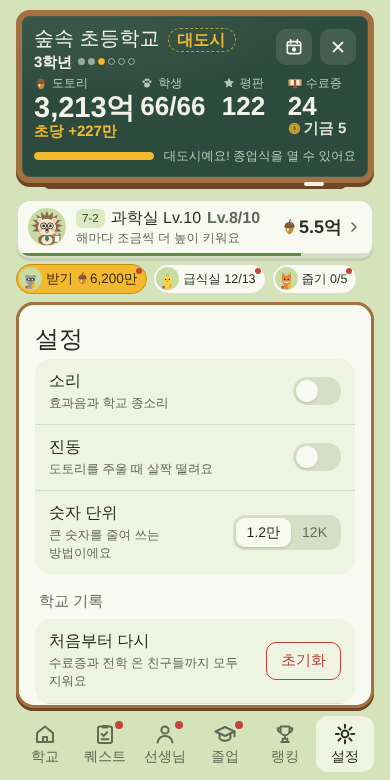
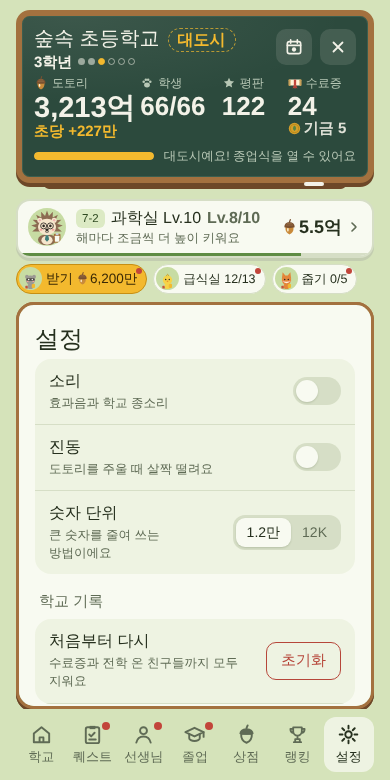
지도를 크게, 황금 도토리 상점을 탭으로, 구글 계정 연결 선물
- 학교 탭은 위아래로 넘겨 보고 지도는 화면 너비만큼 크게 그려요
- 상점을 아래 탭으로 옮겼어요 (지도 위 버튼은 뺐어요)
- 구글 계정을 처음 연결하면 수료증 15장, 기금 3, 황금 도토리 30개를 선물해요

Claude-Session: https://claude.ai/code/session_012ze8hDr8j54WWG53vfH8PM

Changed region(s): [[0.0308, 0.8923, 0.9538, 1.0]]

diff --git a/index.html b/index.html
@@ -491,7 +491,12 @@ label.srow,button.srow{cursor:pointer}
 .fallfx.snow i{width:5px;height:5px;border-radius:50%;background:#FFFFFF;opacity:.9;box-shadow:0 0 2px rgba(120,140,160,.5)}
 @keyframes leafFall{0%{top:-4%;transform:translateX(0) rotate(0)}50%{transform:translateX(var(--dx)) rotate(160deg)}100%{top:104%;transform:translateX(0) rotate(320deg)}}
 @media (prefers-reduced-motion: reduce){.fallfx i{animation:none;top:var(--y)}}
-.modal.shop{padding-bottom:16px}
+.shop-panel{text-align:center}
+.shop-panel h2{text-align:left}
+.shop-panel .shop-scroll{overflow:visible}
+.shop-panel .shop-adleft{margin:6px 0 2px;font-size:12.5px}
+.shop-panel .shop-ask p{margin:0 0 8px;color:var(--chip-ink);font-size:14px}
+.shop-panel .shop-ask{position:sticky;bottom:-28px;box-shadow:0 -4px 12px var(--shadow)}
 .shop-have{display:flex;align-items:center;justify-content:center;gap:6px;margin:0 0 8px;font-family:var(--font-chalk);font-weight:700;font-size:32px;line-height:1.1;font-variant-numeric:tabular-nums}
 .shop-have svg{width:28px;height:28px}
 .modal .shop-adleft{margin:6px 0 2px;font-size:12.5px}
@@ -549,9 +554,14 @@ html.ait .app{padding-top:calc(10px + var(--ait-top, 0px));padding-bottom:var(--
 .info dt{color:var(--muted)} .dev-info{margin-bottom:10px} .info dd{margin:0;text-align:right}
 
 /* 탭 */
-.tabs{flex:none;display:grid;grid-template-columns:repeat(6,1fr);gap:2px;padding-block:8px}
-.tab{position:relative;display:flex;flex-direction:column;align-items:center;gap:2px;padding:6px 0;border:0;border-radius:12px;background:none;color:var(--muted);font-family:var(--font-display);font-size:14px;cursor:pointer}
-.tab svg{width:24px;height:24px}
+.tabs{flex:none;display:grid;grid-template-columns:repeat(7,1fr);gap:1px;padding-block:8px}
+/* 학교 탭은 위아래로 넘겨 보고, 지도는 화면 너비에 맞춰 크게 그려요 */
+.scroller{flex:1;min-height:0;display:flex;flex-direction:column;overflow-y:auto;overscroll-behavior:contain;scrollbar-width:none}
+.scroller::-webkit-scrollbar{display:none}
+.app.on-school .stage{flex:1 0 auto;min-height:calc((min(100vw, 480px) - 32px) * 1.16)}
+.app:not(.on-school) .scroller{overflow:hidden}
+.tab{position:relative;display:flex;flex-direction:column;align-items:center;gap:2px;padding:6px 0;border:0;border-radius:12px;background:none;color:var(--muted);font-family:var(--font-display);font-size:13px;white-space:nowrap;cursor:pointer}
+.tab svg{width:23px;height:23px}
 .tab[aria-selected="true"]{color:var(--ink);background:color-mix(in srgb, var(--paper) 72%, transparent)}
 .tab .dot{position:absolute;top:5px;left:calc(50% + 10px);width:8px;height:8px;border-radius:50%;background:var(--seal)}
 
@@ -820,7 +830,8 @@ html.ait .app{padding-top:calc(10px + var(--ait-top, 0px));padding-bottom:var(--
 </style>
 </head>
 <body>
-<div class="app" id="app">
+<div class="app on-school" id="app">
+<div class="scroller" id="scroller">
   <header class="board">
     <div class="board-top">
       <div class="school">
@@ -1118,7 +1129,7 @@ html.ait .app{padding-top:calc(10px + var(--ait-top, 0px));padding-bottom:var(--
       </svg>
       <div class="fallfx" id="fallFx" hidden aria-hidden="true"></div>
       <div class="map-left">
-        <button class="shopbtn" id="btnShop" type="button" aria-label="황금 도토리 상점"><svg viewBox="-8 -11 16 20" aria-hidden="true"><path d="M-4.6 -1 Q-4.9 5.4 0 7.4 Q4.9 5.4 4.6 -1 Z" class="c-gnut"/><ellipse cx="-1.8" cy="2" rx="0.9" ry="2.1" class="c-gshine"/><path d="M-5.8 -0.8 Q-5.8 -6.2 0 -6.6 Q5.8 -6.2 5.8 -0.8 Q0 0.8 -5.8 -0.8 Z" class="c-gcap"/><path d="M-4 -3.2 H4 M-2.8 -5 H2.8" class="s-gline"/><path d="M0 -6.6 L0.9 -9.2" class="s-gstem"/></svg><b id="goldN">0</b>상점</button>
+        <button class="shopbtn" id="btnShop" type="button" hidden aria-label="황금 도토리 상점"><svg viewBox="-8 -11 16 20" aria-hidden="true"><path d="M-4.6 -1 Q-4.9 5.4 0 7.4 Q4.9 5.4 4.6 -1 Z" class="c-gnut"/><ellipse cx="-1.8" cy="2" rx="0.9" ry="2.1" class="c-gshine"/><path d="M-5.8 -0.8 Q-5.8 -6.2 0 -6.6 Q5.8 -6.2 5.8 -0.8 Q0 0.8 -5.8 -0.8 Z" class="c-gcap"/><path d="M-4 -3.2 H4 M-2.8 -5 H2.8" class="s-gline"/><path d="M0 -6.6 L0.9 -9.2" class="s-gstem"/></svg><b id="goldN">0</b>상점</button>
         <button class="boost" id="btnBoost" type="button" hidden aria-label="부엉이 선생님 보충수업"><span class="b-av" id="boostIc" aria-hidden="true"></span>보충수업 <span class="b-n" id="boostN">5</span></button>
         <div class="feast" id="feastChip" hidden>특식 데이 <b id="feastTime">5:00</b></div>
         <div class="feast" id="autoChip" hidden>자동 줍기 <b id="autoTime">60:00</b></div>
@@ -1179,6 +1190,18 @@ html.ait .app{padding-top:calc(10px + var(--ait-top, 0px));padding-bottom:var(--
       <div class="friends" id="friendList"></div>
     </section>
 
+    <section class="panel shop-panel" id="panelShop" hidden aria-labelledby="shopTitle">
+    <h2 id="shopTitle">황금 도토리 상점</h2>
+    <div class="shop-have" id="shopHave"></div>
+    <button class="cta small" type="button" id="shopAd">광고 보고 황금 도토리 2개 받기</button>
+    <p class="fine shop-adleft" id="shopAdLeft"></p>
+    <div class="shop-scroll" id="shopList"></div>
+    <div class="shop-ask" id="shopAsk" hidden>
+      <p id="shopAskText"></p>
+      <div class="btn-row"><button class="btn-sub" type="button" id="shopNo">취소</button><button class="cta" type="button" id="shopYes">사기</button></div>
+    </div>
+    </section>
+
     <section class="panel" id="panelRank" hidden aria-labelledby="ttlRank">
       <h2 id="ttlRank">랭킹</h2>
       <p class="lead">종업식과 졸업식에서 받은 수료증을 모두 더한 학교 점수로 순위를 매겨요.</p>
@@ -1234,6 +1257,7 @@ html.ait .app{padding-top:calc(10px + var(--ait-top, 0px));padding-bottom:var(--
     <div class="toast" id="toast" role="status" aria-live="polite" hidden></div>
   </main>
 
+</div>
   <nav class="tabs" role="tablist" aria-label="화면 이동">
     <button class="tab" type="button" role="tab" data-tab="school" aria-selected="true">
       <svg viewBox="0 0 24 24" aria-hidden="true"><path d="M4 11 12 4.5 20 11v9H4z M10 20v-5h4v5" fill="none" stroke="currentColor" stroke-width="2" stroke-linejoin="round"/></svg>학교
@@ -1251,6 +1275,9 @@ html.ait .app{padding-top:calc(10px + var(--ait-top, 0px));padding-bottom:var(--
       <svg viewBox="0 0 24 24" aria-hidden="true"><path d="M2.5 9.5 12 5l9.5 4.5L12 14z" fill="none" stroke="currentColor" stroke-width="2" stroke-linejoin="round"/><path d="M6.5 11.6v4.2c0 1.5 2.5 3 5.5 3s5.5-1.5 5.5-3v-4.2M21.5 9.5v5" fill="none" stroke="currentColor" stroke-width="2" stroke-linecap="round" stroke-linejoin="round"/></svg>졸업
       <span class="dot" id="gDot" hidden></span>
       <span class="tguide" aria-hidden="true"><svg viewBox="-10 -22 20 22"><path d="M0 -1 L-8.5 -11 L-3.8 -11 L-3.8 -21 L3.8 -21 L3.8 -11 L8.5 -11 Z"/></svg></span>
+    </button>
+    <button class="tab" type="button" role="tab" data-tab="shop" aria-selected="false">
+      <svg viewBox="0 0 24 24" aria-hidden="true"><path d="M6.4 11.2 Q6.1 18.6 12 20.6 Q17.9 18.6 17.6 11.2 Z" fill="none" stroke="currentColor" stroke-width="2" stroke-linejoin="round"/><path d="M4.6 11.4 Q4.6 5.8 12 5.4 Q19.4 5.8 19.4 11.4 Q12 13 4.6 11.4 Z" fill="currentColor"/><path d="M12 5.4 L13.2 2.6" stroke="currentColor" stroke-width="2" stroke-linecap="round"/></svg>상점
     </button>
     <button class="tab" type="button" role="tab" data-tab="rank" aria-selected="false">
       <svg viewBox="0 0 24 24" aria-hidden="true"><path d="M7.5 4.5h9v4.2a4.5 4.5 0 0 1-9 0z M7.5 6.2H4.6c0 2.6 1.3 4 3.3 4.3 M16.5 6.2h2.9c0 2.6-1.3 4-3.3 4.3 M12 13.2v3.6 M8.2 20h7.6 M9.6 16.8h4.8V20H9.6z" fill="none" stroke="currentColor" stroke-width="1.9" stroke-linejoin="round" stroke-linecap="round"/></svg>랭킹
@@ -1385,21 +1412,6 @@ html.ait .app{padding-top:calc(10px + var(--ait-top, 0px));padding-bottom:var(--
   </section>
 </div>
 
-<div class="overlay center" id="mShop" hidden>
-  <div class="backdrop" data-close-shop></div>
-  <section class="modal wide shop" role="dialog" aria-modal="true" aria-labelledby="shopTitle">
-    <h2 id="shopTitle">황금 도토리 상점</h2>
-    <div class="shop-have" id="shopHave"></div>
-    <button class="cta small" type="button" id="shopAd">광고 보고 황금 도토리 2개 받기</button>
-    <p class="fine shop-adleft" id="shopAdLeft"></p>
-    <div class="shop-scroll" id="shopList"></div>
-    <div class="shop-ask" id="shopAsk" hidden>
-      <p id="shopAskText"></p>
-      <div class="btn-row"><button class="btn-sub" type="button" id="shopNo">취소</button><button class="cta" type="button" id="shopYes">사기</button></div>
-    </div>
-    <button class="btn-sub btn-close" type="button" id="shopClose">닫기</button>
-  </section>
-</div>
 
 <div class="overlay center" id="mMove" hidden>
   <div class="backdrop" data-close-move></div>
@@ -1921,6 +1933,7 @@ html.ait .app{padding-top:calc(10px + var(--ait-top, 0px));padding-bottom:var(--
     }
     s.autoUntil = Math.min(num(d.autoUntil, 0, 0), Date.now() + 3 * 3600000);
     if (typeof d.tk === 'string') s.tk = d.tk.slice(0, 200);
+    s.acctGift = !!d.acctGift;
     if (d.rank && typeof d.rank === 'object') {
       s.rank.name = cleanName(d.rank.name);
       s.rank.joined = !!d.rank.joined && !!s.rank.name;
@@ -3242,6 +3255,14 @@ html.ait .app{padding-top:calc(10px + var(--ait-top, 0px));padding-bottom:var(--
      지금 익명 id에 구글 계정을 이어 붙여요. id가 그대로라서 서버 저장도 그대로 이어져요.
      그 구글 계정에 이미 다른 학교가 있으면(새 휴대폰) 어느 학교로 이어 할지 물어봐요 */
   const hasGoogle = () => !!window.FOREST_GOOGLE;
+  const ACCT_GIFT = { dip: 15, fund: 3, gold: 30 };   // 구글 계정을 처음 연결하면 한 번 주는 선물
+  function giveAcctGift() {
+    if (S.acctGift) return '';
+    S.acctGift = true;
+    addDip(ACCT_GIFT.dip); S.fund += ACCT_GIFT.fund; addGold(ACCT_GIFT.gold);
+    save(); renderHUD(); renderGradPanel(true);
+    return ` 선물로 수료증 +${ACCT_GIFT.dip}장, 기금 +${ACCT_GIFT.fund}, 황금 도토리 +${ACCT_GIFT.gold}개를 받았어요!`;
+  }
   function googleUser() {
     try { const u = Cloud.fb.auth().currentUser; return (u && (u.providerData || []).find(p => p.providerId === 'google.com')) || null; } catch (e) { return null; }
   }
@@ -3251,7 +3272,8 @@ html.ait .app{padding-top:calc(10px + var(--ait-top, 0px));padding-bottom:var(--
     if (row.hidden) return;
     const g = googleUser();
     $('#acctTitle').textContent = g ? '구글 계정 연결됨' : '구글 계정 연결';
-    $('#acctSub').textContent = g ? `${g.email || '구글'} 계정에 학교가 저장돼요` : '연결해 두면 휴대폰을 바꿔도 같은 학교를 이어 해요';
+    $('#acctSub').textContent = g ? `${g.email || '구글'} 계정에 학교가 저장돼요` :
+      (S.acctGift ? '연결해 두면 휴대폰을 바꿔도 같은 학교를 이어 해요' : `연결하면 수료증 ${ACCT_GIFT.dip}장, 기금 ${ACCT_GIFT.fund}, 황금 도토리 ${ACCT_GIFT.gold}개를 선물로 줘요`);
   }
   async function linkGoogle() {
     if (!cloudOn() || rt.acctBusy) return;
@@ -3273,7 +3295,8 @@ html.ait .app{padding-top:calc(10px + var(--ait-top, 0px));padding-bottom:var(--
           cred = Cloud.fb.auth.GoogleAuthProvider.credential(g.idToken);
           await auth.currentUser.linkWithCredential(cred);
         }
-        toast('구글 계정을 연결했어요'); sfx('quest');
+        const gift = giveAcctGift();
+        toast('구글 계정을 연결했어요.' + gift); sfx('quest');
         renderAcct(); cloudPush(true);
       } catch (e) {
         if (!/credential-already-in-use|email-already-in-use|account-exists/.test(String(e && e.code))) throw e;
@@ -3287,7 +3310,7 @@ html.ait .app{padding-top:calc(10px + var(--ait-top, 0px));padding-bottom:var(--
         Cloud.gen += 1; rt.adopting = true;   // 예전 id로 하던 저장은 멈추고, 고른 학교로 다시 열어요
         const srv = (await waitFor(Cloud.db.ref('forest/saves/' + u.uid).once('value'), CLOUD_WAIT)).val();
         if (srv && typeof srv.d === 'string') askAcct(srv.d, local);
-        else adoptSave(local, '구글 계정을 연결했어요');
+        else { if (!S.acctGift) { rt.adopting = false; giveAcctGift(); rt.adopting = true; } adoptSave(JSON.stringify(S), '구글 계정을 연결했어요'); }
       }
     } catch (e) {
       const c = String(e && (e.code || e.message));
@@ -3692,7 +3715,7 @@ html.ait .app{padding-top:calc(10px + var(--ait-top, 0px));padding-bottom:var(--
     renderShopBtn();
     const b = $('#btnShop');
     if (!b.hidden) { const sp = document.createElement('span'); sp.className = 'gpop'; sp.textContent = '+' + n; b.appendChild(sp); setTimeout(() => sp.remove(), 1400); }
-    if (rt.modalOpen === $('#mShop')) renderShop();
+    if (rt.tab === 'shop') renderShop();
   }
   // 광고를 끝까지 보면 덤으로 1개 (하루 10개까지)
   function adGold() { goldDay(); if (S.gd.n >= GOLD.adDay) return; S.gd.n += 1; addGold(1); }
@@ -3736,10 +3759,8 @@ html.ait .app{padding-top:calc(10px + var(--ait-top, 0px));padding-bottom:var(--
     return `<svg viewBox="0 0 40 40" aria-hidden="true"><rect x="5" y="9" width="30" height="21" rx="3" fill="${it.c}" stroke="#7A522D" stroke-width="2.5"/><path d="M10 16 h12 M10 21 h17 M10 26 h8" stroke="#F3F2E8" stroke-width="1.6" stroke-linecap="round"/></svg>`;
   }
   function openShop() {
-    rt.shopPick = '';
-    renderShop();
-    openModal($('#mShop'));
-    $('#shopList').scrollTop = 0;
+    if (rt.modalOpen) closeModal(rt.modalOpen);
+    setTab('shop');
   }
   function renderShop() {
     goldDay();
@@ -3773,7 +3794,6 @@ html.ait .app{padding-top:calc(10px + var(--ait-top, 0px));padding-bottom:var(--
     // 사기 전에 한 번 더 물어봐요
     const ask = $('#shopAsk'), it = shopItem(rt.shopPick);
     ask.hidden = !it;
-    $('#shopClose').hidden = !!it;
     if (it) {
       const enough = S.gold >= it.price;
       $('#shopAskText').textContent = enough ? `${it.name}${it.ga} 황금 도토리 ${it.price}개로 살까요?` : `황금 도토리가 ${it.price - S.gold}개 모자라요.`;
@@ -3836,19 +3856,16 @@ html.ait .app{padding-top:calc(10px + var(--ait-top, 0px));padding-bottom:var(--
   function shopAd() {
     goldDay();
     if (S.gd.shop >= GOLD.shopAd) { shake($('#shopAd')); return; }
-    closeModal($('#mShop'), () => {
-      rt.adNoGold = true;
-      showAd(() => {
-        goldDay(); S.gd.shop += 1;
-        addGold(GOLD.shopAdN);
-        sfx('quest');
-        toast(`황금 도토리 +${GOLD.shopAdN}개를 받았어요`);
-        save();
-        queueModal(() => { openShop(); return true; });
-      }, () => {
-        toast('광고를 끝까지 보지 않아서 황금 도토리가 없어요');
-        queueModal(() => { openShop(); return true; });
-      });
+    rt.adNoGold = true;
+    showAd(() => {
+      goldDay(); S.gd.shop += 1;
+      addGold(GOLD.shopAdN);
+      sfx('quest');
+      toast(`황금 도토리 +${GOLD.shopAdN}개를 받았어요`);
+      save();
+      if (rt.tab === 'shop') renderShop();
+    }, () => {
+      toast('광고를 끝까지 보지 않아서 황금 도토리가 없어요');
     });
   }
 
@@ -4625,6 +4642,10 @@ html.ait .app{padding-top:calc(10px + var(--ait-top, 0px));padding-bottom:var(--
     $('#panelGrad').hidden = t !== 'grad';
     $('#panelSettings').hidden = t !== 'settings';
     $('#panelRank').hidden = t !== 'rank';
+    $('#panelShop').hidden = t !== 'shop';
+    $('#app').classList.toggle('on-school', t === 'school');
+    if (t !== 'school') $('#scroller').scrollTop = 0;
+    if (t === 'shop') { rt.shopPick = ''; renderShop(); $('#panelShop').scrollTop = 0; }
     if (t === 'rank') { rt.rankEdit = false; initRank(); renderRankPanel(); submitRank(); }
     if (t === 'settings') renderCloudInfo();
     if (prev === 'quests' && t !== 'quests') markQuestsSeen();
@@ -4768,8 +4789,6 @@ html.ait .app{padding-top:calc(10px + var(--ait-top, 0px));padding-bottom:var(--
     });
     // 황금 도토리 상점
     $('#btnShop').addEventListener('click', () => { if (!rt.paused && !rt.modalOpen) { sfx('tap'); openShop(); } });
-    $('#shopClose').addEventListener('click', () => closeModal($('#mShop')));
-    $('[data-close-shop]').addEventListener('click', () => closeModal($('#mShop')));
     $('#shopList').addEventListener('click', e => { const b = e.target.closest('[data-buy]'); if (b) pickShop(b.dataset.buy); });
     $('#shopNo').addEventListener('click', () => { rt.shopPick = ''; renderShop(); });
     $('#shopYes').addEventListener('click', buyShop);
@@ -4916,7 +4935,6 @@ html.ait .app{padding-top:calc(10px + var(--ait-top, 0px));padding-bottom:var(--
       else if (rt.modalOpen === $('#mDeal')) closeModal($('#mDeal'));
       else if (rt.modalOpen === $('#mMove') && !rt.moveIn) closeModal($('#mMove'));
       else if (rt.modalOpen === $('#mStats')) closeModal($('#mStats'));
-      else if (rt.modalOpen === $('#mShop')) closeModal($('#mShop'));
       else if (rt.sheetKey && !rt.modalOpen) closeSheet();
     });
     document.addEventListener('visibilitychange', () => {

diff --git a/README.md b/README.md
@@ -89,7 +89,7 @@ Firebase 무료 요금제(Spark)로 충분해요. 테스터 몇 명이면 저장
 게임은 Claude 화면의 시제품과 같은 코드예요. 고칠 때는 `index.html`만 새로 만들어 올리고 `config.js`는 그대로 둬요.
 
 ## 황금 도토리와 꾸미기 상점
-학교 화면 왼쪽 위 **상점** 버튼에서 열어요.
+아래 **상점** 탭에서 열어요. 구글 계정을 처음 연결하면 수료증 15장, 기금 3, 황금 도토리 30개를 선물로 줘요.
 - 모으는 곳: 광고를 끝까지 보면 1개 (하루 10개까지), 상점에서 광고 보고 2개 (하루 5번), 출석 도장 1개 (7일째 5개), 메인 퀘스트 한 장 3개, 종업식 2개, 졸업식 10개
 - 쓰는 곳: 학생 모자와 목 장식, 학교 지붕(벚꽃 학교, 눈 오는 학교), 칠판 색, 부스터(특식 데이 30분, 2시간 건너뛰기, 도토리 자동 줍기 1시간)
 - 뽑기 없이 정해진 값으로만 팔아요.
